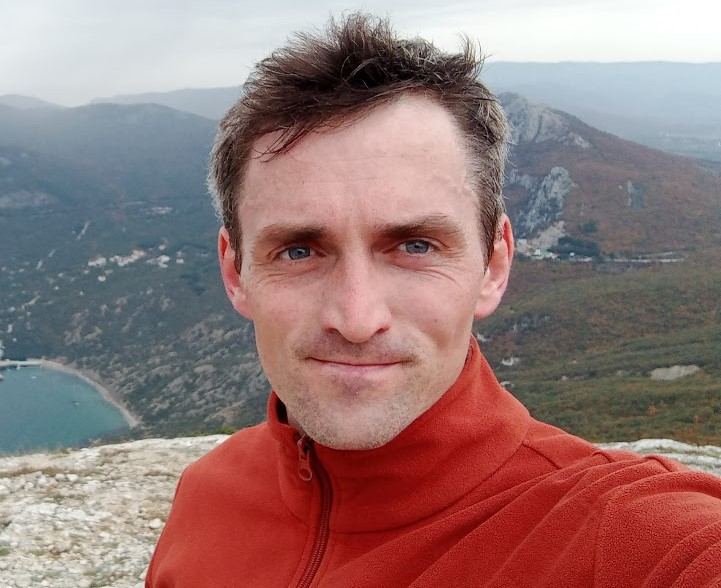
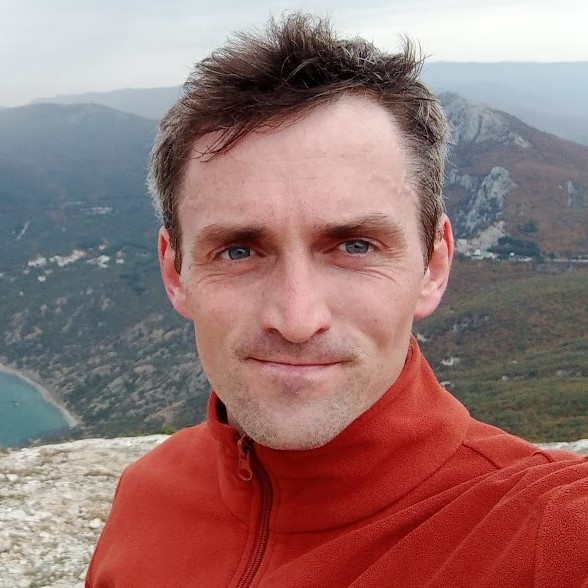
feat: add members photos, project description

diff --git a/src/pages/aboutUs/index.tsx b/src/pages/aboutUs/index.tsx
@@ -36,6 +36,139 @@ export function AboutUs() {
           <strong>LAZZONE</strong> application, where anyone can quickly and
           easily find clothing for any purpose!
         </p>
+        <p>
+          The application is built using excellent commercetools service, which
+          provides the backend and API for creating various commercial
+          start-ups.
+        </p>
+        <ul>
+          To enhance the development efficiency, our team utilized the following
+          tools:
+          <li>
+            Work coordination and progress tracking were done using{' '}
+            <strong>
+              <i>Jira</i>.
+            </strong>
+          </li>
+          <li>
+            The project was developed using{' '}
+            <strong>
+              <i>REACT</i>
+            </strong>{' '}
+            +{' '}
+            <strong>
+              <i>Redux</i>
+            </strong>{' '}
+            +{' '}
+            <strong>
+              <i>TypeScript</i>.
+            </strong>
+          </li>
+          <li>
+            <strong>
+              <i>Styled-components</i>
+            </strong>{' '}
+            library was used for styling the application.
+          </li>
+          <li>
+            <strong>
+              <i>Husky</i>
+            </strong>{' '}
+            library was used for commit control.
+          </li>
+          <li>
+            <strong>
+              <i>Vite</i>
+            </strong>{' '}
+            was used as the bundler in the project, chosen over the more
+            well-known{' '}
+            <strong>
+              <i>Webpack</i>,
+            </strong>{' '}
+            at Dmitry&apos;s initiative.
+          </li>
+          <li>
+            <strong>
+              <i>ESLint</i>
+            </strong>{' '}
+            with{' '}
+            <strong>
+              <i>Airbnb</i>
+            </strong>{' '}
+            configuration and{' '}
+            <strong>
+              <i>Prettier</i>
+            </strong>{' '}
+            were used as the linter and formatting automation tool.
+          </li>
+          <li>
+            <strong>
+              <i>Axios</i>
+            </strong>{' '}
+            was used for making requests.
+          </li>
+          <li>
+            <strong>
+              <i>Formik</i>
+            </strong>{' '}
+            library proved to be the most convenient for working with forms.
+          </li>
+          <li>
+            <strong>
+              <i>React-toastify</i>
+            </strong>{' '}
+            library was used for displaying pop-up notifications.
+          </li>
+          <li>
+            <strong>
+              <i>Vitest</i>
+            </strong>{' '}
+            was used as the testing framework.
+          </li>
+        </ul>
+        Contributions of team members:
+        <ul>
+          Thanks to <strong>Dmitry</strong>&apos;s efforts project has:
+          <li>
+            Adjusted and running React + Typescript, Vite, ESLint, Prettier,
+            Vitest, Husky;
+          </li>
+          <li>Registration page;</li>
+          <li>Customer profile page;</li>
+          <li>About-us page;</li>
+          <li>Adaptiveness and responsiveness of the whole site; and</li>
+          <li>Interfaces for some types of server requests and responses.</li>
+        </ul>
+        <ul>
+          <strong>Elizaveta</strong> did her best to make up and running:
+          <li>Initial setup of Redux, Toastify, Styled-components, Formik;</li>
+          <li>Login and Logout pages;</li>
+          <li>Eloquent overall app design;</li>
+          <li>Readme file and PR-template; and</li>
+          <li>Card, header, slider and some other components.</li>
+        </ul>
+        <ul>
+          <strong>Pavel</strong> was all in:
+          <li>Seting up Axios;</li>
+          <li>Making up server data request API;</li>
+          <li>Implementation of page 404;</li>
+          <li>Implementation of routing and navigation;</li>
+          <li>Implementation of product page;</li>
+          <li>
+            Registration in CommerceTools, Jira, Netlify and adjustment of
+            these; and
+          </li>
+          <li>Creation of task lists in Jira, and forming sprint framework.</li>
+        </ul>
+        <p>
+          We cannot fail to mention the person who wished to stay behind the
+          scenes but without whom we would hardly be able to develop such a
+          comprehensive application within such tight deadlines - our mentor,
+          code fairy, and simply a wonderful person, Ann Ignatova. She supported
+          us, provided guidance on how to implement various aspects of the
+          application, advised us in challenging situations, suggested code
+          improvements, and rigorously ensured the code cleanliness.
+        </p>
       </article>
       <TeamMembersCardsList />
     </StyledPageContentWrapper>

diff --git a/src/pages/aboutUs/TeamMemberCard/ImageWrapper/style.ts b/src/pages/aboutUs/TeamMemberCard/ImageWrapper/style.ts
@@ -7,7 +7,8 @@ export const StyledPhotoWrapper = styled.div`
   border: 2px solid #c1c1c1;
   border-radius: 5px;
 
-  background-size: cover;
+  background-color: #000000;
+  background-size: contain;
   background-repeat: no-repeat;
   background-position: center;
 `;
